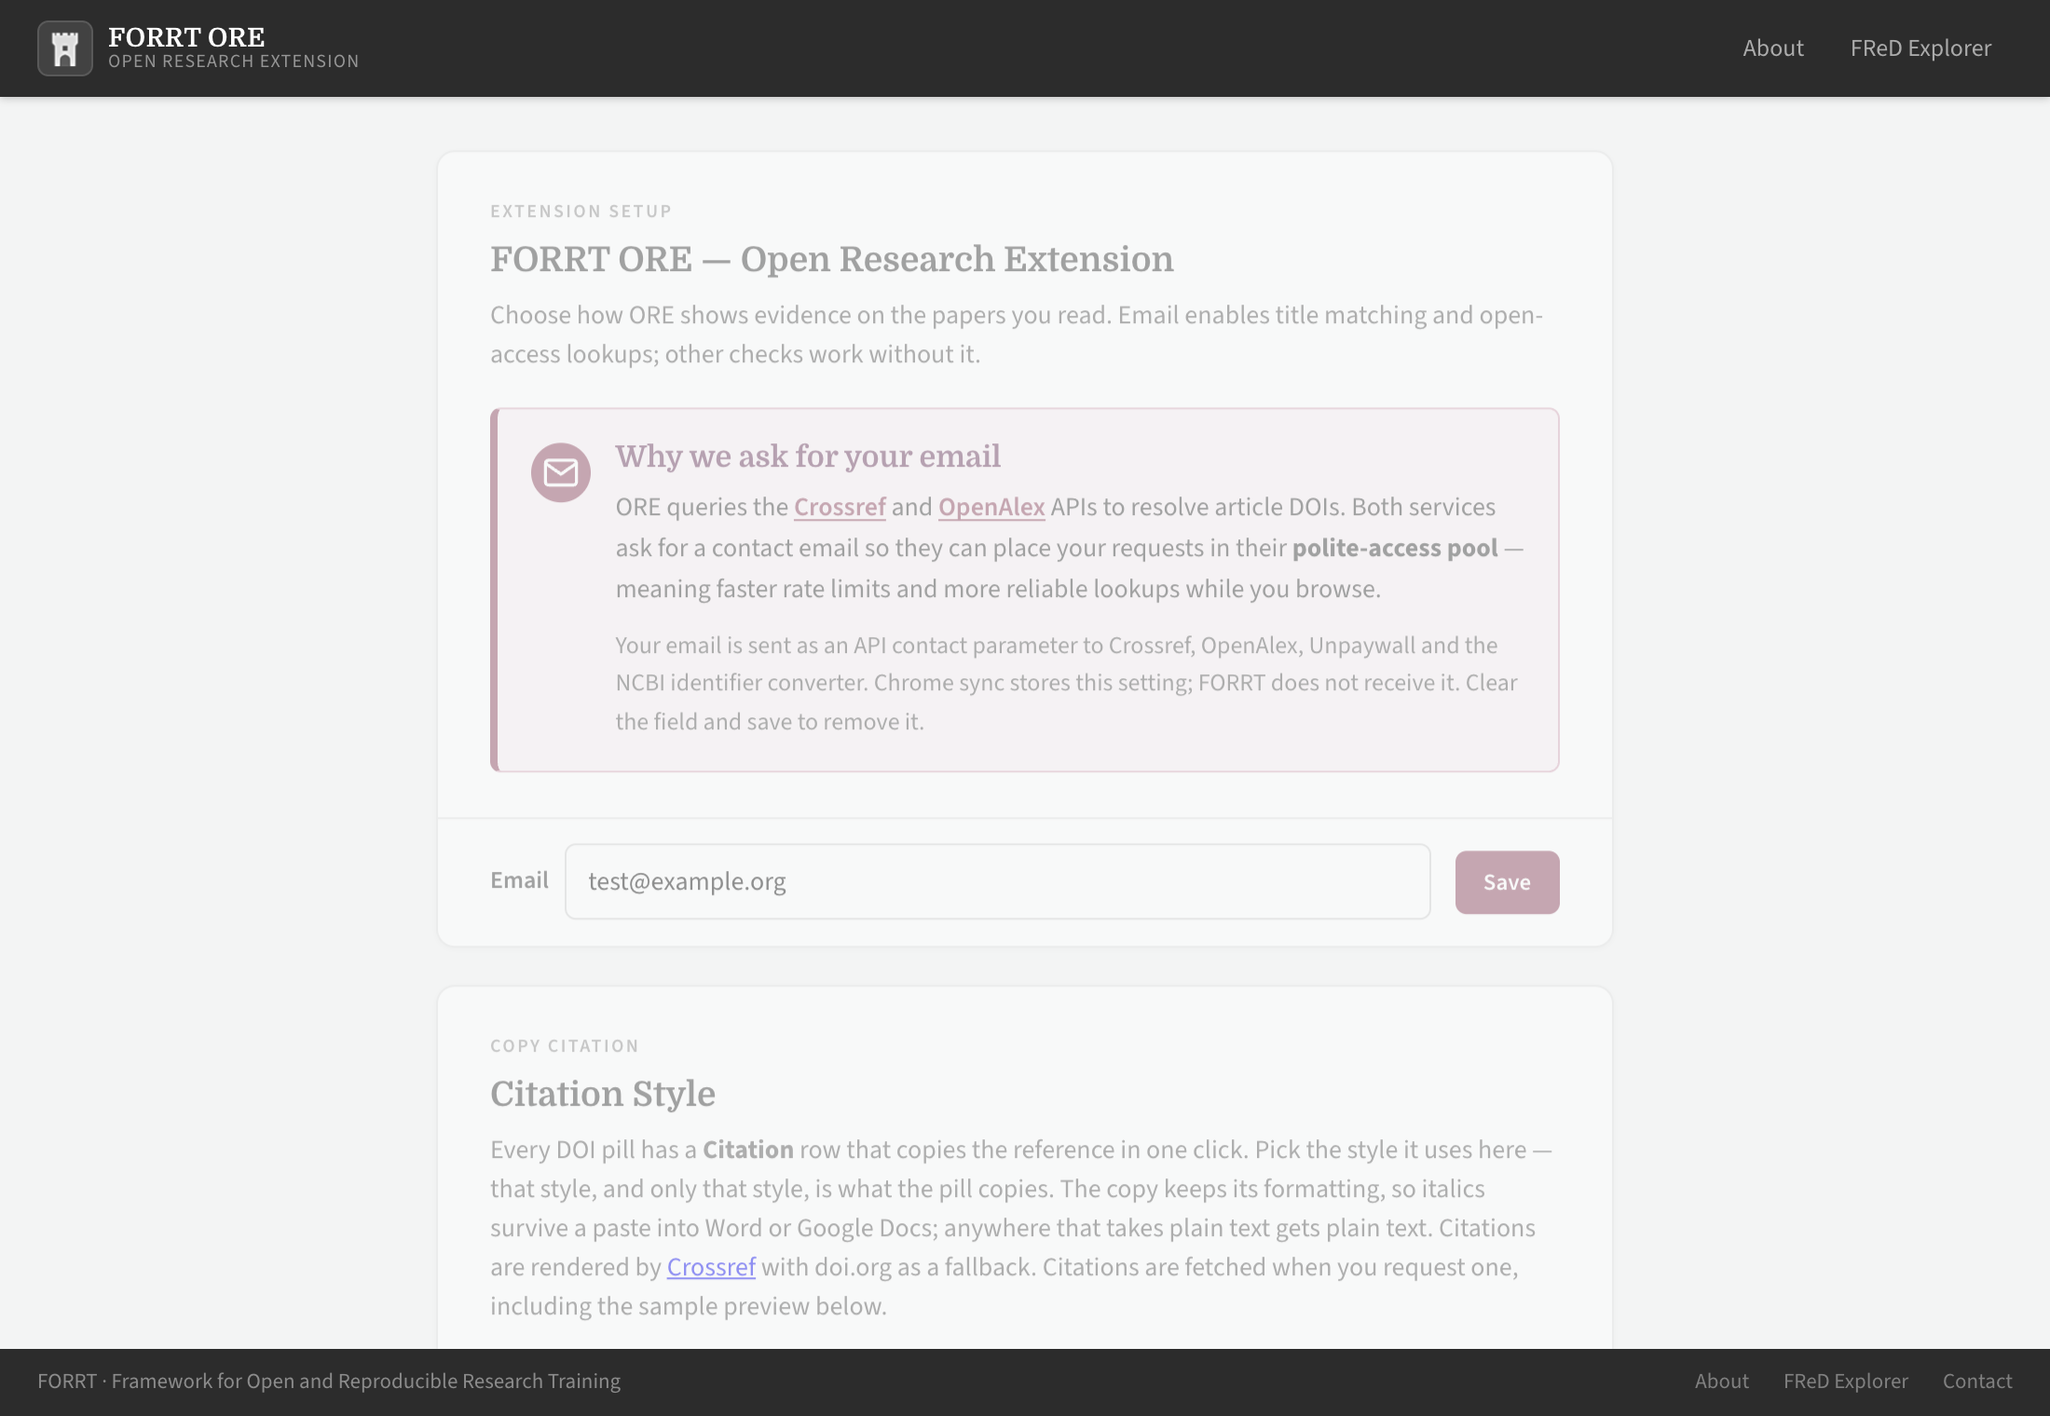
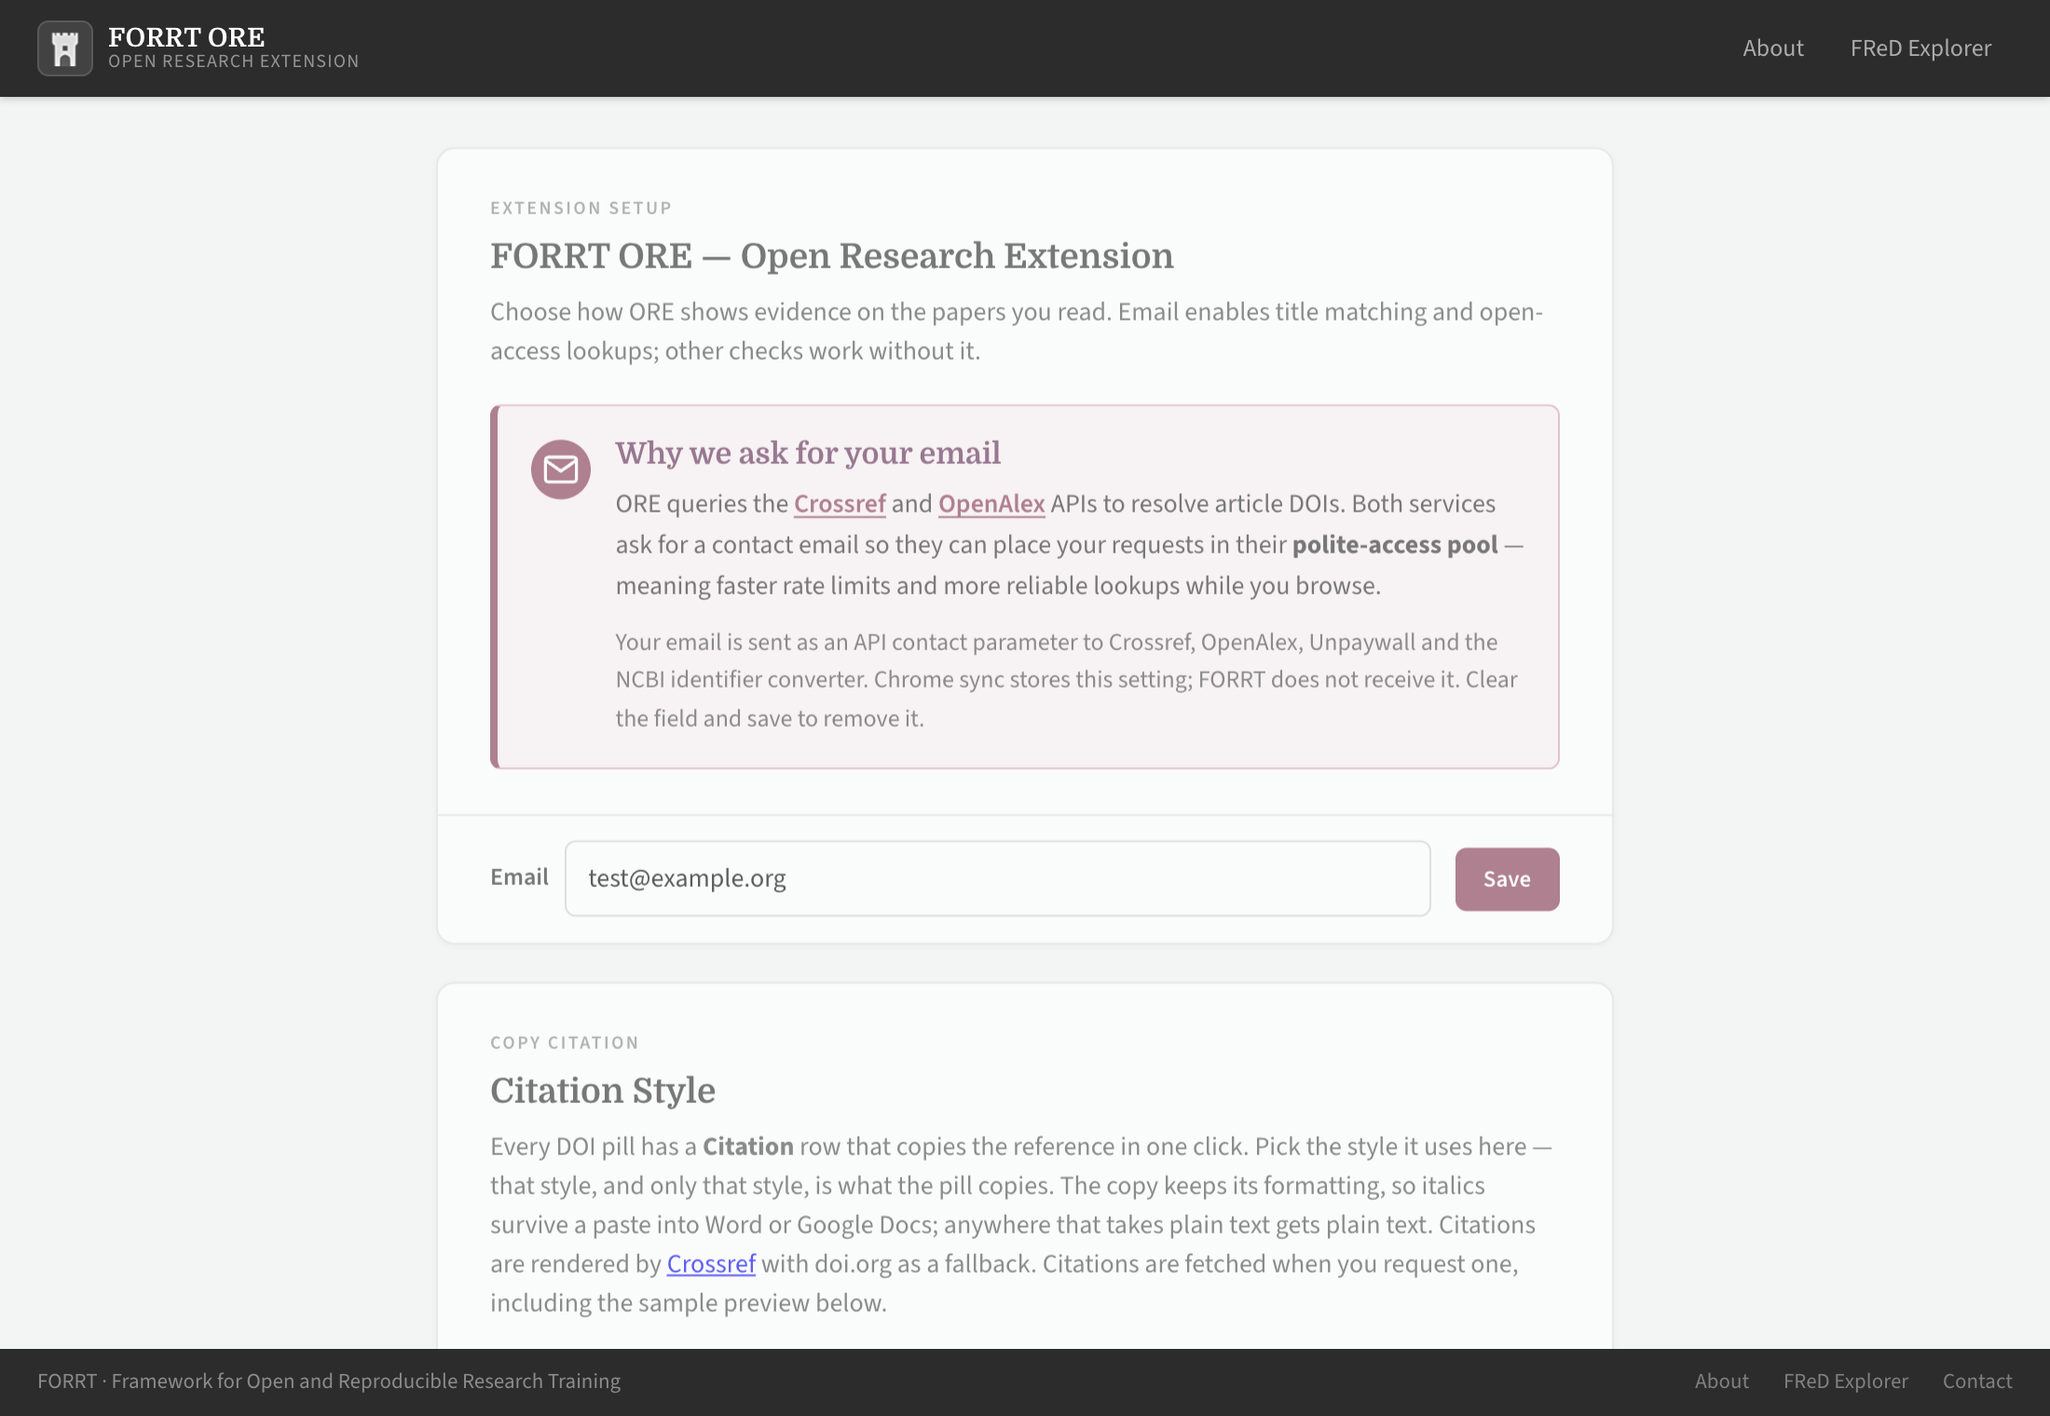
Address consistency review and redact contact details from diagnostics

diff --git a/docs/privacy.html b/docs/privacy.html
@@ -104,7 +104,8 @@
         <li>
           <strong>The URL and hostname of the current page</strong>, used within
           your browser to scope scanning and to apply your per-domain settings.
-          URLs are not sent as part of paper lookups. If you choose to report an
+          Article-page PubPeer lookups also send the page URL to PubPeer.
+          If you choose to report an
           issue, the report may include page information; review it before sharing.
         </li>
         <li>
@@ -128,8 +129,8 @@
       <ul>
         <li>
           <strong>Settings</strong> (<code>chrome.storage.sync</code>): your
-          contact email, citation style, DOI-pill display preference, cache
-          limit, disabled domains and muted PubPeer commenters. Because this
+          contact email, citation style, cache limit, disabled domains, muted
+          PubPeer commenters and the “Offer Copy log after each pass” preference. Because this
           uses Chrome's sync storage, these settings are synchronised across
           browsers you are signed into — that synchronisation is performed by
           Chrome under your Google account, not by FORRT.
@@ -171,8 +172,8 @@
         <tbody>
           <tr>
             <td>FORRT replication API (<code>rep-api.forrt.org</code>)</td>
-            <td>DOIs, in batches</td>
-            <td>Replication and reproduction records</td>
+            <td>DOIs, in batches; DOI lists for long Atlas links</td>
+            <td>Replication and reproduction records; storing DOI sets referenced by a shorter Atlas link</td>
           </tr>
           <tr>
             <td><a href="https://www.crossref.org/">Crossref</a></td>
@@ -182,7 +183,7 @@
           <tr>
             <td><a href="https://openalex.org/">OpenAlex</a></td>
             <td>Titles, OpenAlex work ids, your contact email</td>
-            <td>Resolving titles to DOIs when Crossref finds no match; resolving OpenAlex search results to DOIs</td>
+            <td>Resolving titles to DOIs; resolving OpenAlex search results to DOIs</td>
           </tr>
           <tr>
             <td><a href="https://www.semanticscholar.org/">Semantic Scholar</a></td>
@@ -196,7 +197,7 @@
           </tr>
           <tr>
             <td><a href="https://pubpeer.com/">PubPeer</a></td>
-            <td>DOIs</td>
+            <td>DOIs and, for article-page lookups, the current page URL</td>
             <td>Post-publication comment counts and threads</td>
           </tr>
           <tr>
@@ -230,6 +231,17 @@
         </tbody>
       </table>
       <p>
+        Title matching alternates which of Crossref or OpenAlex is queried first.
+        The other service is contacted when the first fails or returns no single
+        DOI. Both may therefore receive the same title.
+      </p>
+      <p>
+        For a long Atlas link, ORE sends the DOI list to FORRT to create a stored
+        set and uses its identifier in the link. This happens while preparing
+        the link, before you click it. The separate Meta Report share link
+        encodes its report in the URL fragment instead.
+      </p>
+      <p>
         <strong>Retraction status is determined locally.</strong> The Extension
         downloads the retraction list about once a week and checks papers
         against it on your own device, so no DOI is ever sent anywhere in order
@@ -259,9 +271,11 @@
       <h2>7. Retention</h2>
       <ul>
         <li>
-          <strong>Lookups sent to the FORRT API</strong> are used to answer the
-          request and are not logged. No record is kept of which DOIs were
-          looked up, or of who looked them up.
+          <strong>FORRT API requests</strong> retrieve evidence for the submitted
+          DOIs. DOI sets created for long Atlas links are stored by FORRT so
+          those links can retrieve the list later; they are separate from the
+          lookup cache on your device. Clearing extension storage does not
+          delete a server-side DOI set.
         </li>
         <li>
           <strong>Third-party services</strong> (Crossref, OpenAlex, Unpaywall,
@@ -322,7 +336,8 @@
         All requests are made over HTTPS. Data stored locally is subject to your
         browser's own security model. The Extension requests only the browser
         permissions it needs — storage, extended storage for its cache, and
-        access to the tab you are actively viewing — and its full source code is
+        access to the tab you are actively viewing, plus alarms for scheduled
+        maintenance — and its full source code is
         <a href="https://github.com/forrtproject/chromium-extension">public</a>.
       </p>
 

diff --git a/src/walkthrough/index.html b/src/walkthrough/index.html
@@ -172,12 +172,11 @@
                       </svg>
                     </div>
                     <div class="wt-callout-body">
-                      <div class="wt-callout-title">A dash means "nothing found"</div>
+                      <div class="wt-callout-title">Read the status in each row</div>
                       <div class="wt-callout-text">
-                        Rows stay in place when a lookup comes back empty
-                        rather than disappearing, so the panel is the same
-                        shape on every result and you can tell "no free copy"
-                        apart from "not checked yet".
+                        Rows stay in place while checks run and when nothing
+                        is found. Read the status to distinguish an empty result
+                        from a check that is still pending or unavailable.
                       </div>
                     </div>
                   </div>
@@ -356,12 +355,11 @@
                       </svg>
                     </div>
                     <div class="wt-callout-body">
-                      <div class="wt-callout-title">References are not all pilled</div>
+                      <div class="wt-callout-title">Pills identify recognised references</div>
                       <div class="wt-callout-text">
-                        By default a reference gets a pill only where its DOI is
-                        not already printed on the page, to keep a bibliography
-                        readable. Settings has a switch for a pill on every
-                        reference.
+                        Each recognised reference gets a pill. When its DOI is
+                        already linked on the page, ORE places the pill after
+                        that link; otherwise it adds one beside the reference.
                       </div>
                     </div>
                   </div>
@@ -514,8 +512,8 @@
                   </div>
                   <div class="demo-board-row">
                     <div class="demo-board-label">
-                      <strong>Nothing found</strong>
-                      <span>Same shape, all four dimmed — ORE looked and came back empty</span>
+                      <strong>No positive signals</strong>
+                      <span>Dimmed icons: open the panel to see whether checks completed</span>
                     </div>
                     <div class="demo-board-art" data-demo="pill-no-signals"></div>
                   </div>
@@ -895,7 +893,7 @@
                 </div>
 
                 <p class="wt-footnote">
-                  You can reopen this tour any time from Settings.
+                  Reopen this tour from the ORE toolbar popup: choose “How it works”.
                 </p>
               </div>
             </div>

diff --git a/tests/unit/debug-log.test.ts b/tests/unit/debug-log.test.ts
@@ -3,6 +3,7 @@ import {
   _resetDebugForTesting,
   debugError,
   debugLog,
+  recentDebugEntries,
   flushDebugLog,
   isDebugEnabled,
   setDebug,
@@ -265,13 +266,35 @@ describe("debug report", () => {
     }) as unknown as typeof chrome.storage.sync.get;
     _resetSettingsCacheForTesting();
 
-    await appendDebugEntries([entry("looked up 10.1234/abc", 1)]);
+    // Simulate an older persisted failure log, before capture-time redaction.
+    localStore[DEBUG_LOG_KEY] = [entry(
+      "Citation: https://api.crossref.org/works/10.1234%2Fabc/transform?mailto=someone%40university.edu failed; contact someone@university.edu", 1,
+    )];
     const { text, entryCount } = await buildDebugReport();
 
     expect(entryCount).toBe(1);
     expect(text).not.toContain("someone@university.edu");
     expect(text).toContain("Contact email configured: yes");
-    expect(text).toContain("looked up 10.1234/abc");
+    expect(text).not.toContain("someone%40university.edu");
+    expect(text).toContain("10.1234%2Fabc/transform?mailto=[redacted]");
+  });
+
+  it("redacts contact addresses before capturing failure diagnostics", () => {
+    debugError("request failed", new Error("https://api.crossref.org/works/10.1234/abc?mailto=someone%40university.edu&rows=5; someone@university.edu"));
+    const captured = recentDebugEntries();
+    expect(captured[0].msg).not.toMatch(/someone(?:@|%40)university\.edu/);
+    const report = renderDebugReport({environment: [], settings: [], entries: captured});
+    expect(report).not.toMatch(/someone(?:@|%40)university\.edu/);
+    expect(report).toContain("mailto=[redacted]&rows=5");
+    expect(report).toContain("10.1234/abc");
+  });
+
+  it("redacts addresses in issue error summaries even without a captured log", () => {
+    const { url } = issueUrl({error: {message: "Failed for someone@university.edu", stack: "https://api.crossref.org/?mailto=someone%40university.edu"}});
+    const parsed = new URL(url);
+    expect(parsed.searchParams.get("title")).not.toContain("someone@");
+    expect(parsed.searchParams.get("body")).not.toMatch(/someone(?:@|%40)university\.edu/);
+    expect(parsed.searchParams.get("body")).toContain("[redacted");
   });
 
   it("builds an issue URL that names the domain", () => {

diff --git a/docs/index.html b/docs/index.html
@@ -77,9 +77,9 @@
             Left to right: whether the DOI was read off the page or found by
             search, whether a free full text exists, whether the paper is
             discussed on PubPeer, and how many replications or reproductions are
-            on record. A dimmed segment means nothing was found for that signal —
-            it never disappears. Point at the pill and each segment opens into a
-            row you can read and act on; click to keep it open.
+            on record. A dimmed segment can mean nothing was found, or that the
+            check is pending or unavailable. Point at the pill to read each
+            status and available action; click to keep it open.
           </p>
           <figure class="shot plain wide">
             <img
@@ -292,10 +292,12 @@
             <li>Turn on <strong>Developer mode</strong>, top right.</li>
             <li>Click <strong>Load unpacked</strong> and select the unzipped folder.</li>
             <li>
-              Optionally enter a contact email on the settings page that opens.
+              The welcome tour opens after installation. Choose <strong>Open
+              Settings</strong> at the end, or <strong>Skip to Settings</strong>,
+              to optionally enter a contact email.
               ORE needs it for title-to-DOI matching and Unpaywall lookups.
               Existing DOI, replication, retraction and PubPeer checks work
-              without it. The address also accompanies Crossref, OpenAlex and
+              without it. The address accompanies Crossref, OpenAlex, Unpaywall and
               NCBI requests.
             </li>
           </ol>

diff --git a/src/shared/debug-report.ts b/src/shared/debug-report.ts
@@ -14,6 +14,7 @@
  * only ever upgrades a trimmed log to a complete one.
  */
 
+import { redactDebugText } from "./debug-redact";
 import { recentDebugEntries, type DebugLogEntry, type RuntimeErrorInfo } from "./debug";
 import { readDebugLog } from "./debug-log";
 import { safeSendMessage } from "./messages";
@@ -140,7 +141,7 @@ export function renderDebugReport(
     lines.push(
       "_No entries captured. Turn debug mode on, reproduce the problem, then copy the report again._"
     );
-    return lines.join("\n");
+    return redactDebugText(lines.join("\n"));
   }
 
   let body = shown.map(formatDebugEntry).join("\n");
@@ -150,7 +151,7 @@ export function renderDebugReport(
   }
 
   lines.push("```", body, "```");
-  return lines.join("\n");
+  return redactDebugText(lines.join("\n"));
 }
 
 /** Gather the report's parts without rendering them. */
@@ -304,8 +305,8 @@ function linkFor(
   error?: RuntimeErrorInfo | null
 ): string {
   const params = new URLSearchParams({
-    title: issueTitle(domain, error),
-    body: issueBody(domain, reportSection, error),
+    title: redactDebugText(issueTitle(domain, error)),
+    body: redactDebugText(issueBody(domain, reportSection, error)),
     labels: error ? "bug" : domain ? "domain-issue" : "bug",
   });
   return `${ISSUE_URL}?${params.toString()}`;

diff --git a/src/content-general/injector.ts b/src/content-general/injector.ts
@@ -131,7 +131,8 @@ export async function renderSetupPrompt(): Promise<void> {
       <div style="padding:12px 14px;">
         <p style="margin:0 0 6px;font-size:13px;color:#3c4043;line-height:1.45;">
           Add an email to enable title matching and open-access lookups.
-          Replication, retraction and PubPeer checks already work without it.
+          DOI-based replication, retraction and PubPeer checks work without it.
+          Settings explains how Crossref, OpenAlex, Unpaywall and NCBI receive the email.
         </p>
         <button class="flora-setup-open" style="
           all:unset;cursor:pointer;display:block;width:100%;text-align:center;

diff --git a/src/shared/debug.ts b/src/shared/debug.ts
@@ -11,6 +11,8 @@
  * startup so its own entries skip the message round-trip.
  */
 
+import { redactDebugText } from "./debug-redact";
+
 export type DebugLevel = "log" | "warn" | "error";
 
 /** One captured line. Kept small — hundreds of these are persisted at a time. */
@@ -113,7 +115,7 @@ function stringifyArg(arg: unknown): string {
 }
 
 function formatMessage(args: unknown[]): string {
-  const text = args.map(stringifyArg).join(" ");
+  const text = redactDebugText(args.map(stringifyArg).join(" "));
   return text.length > MAX_MESSAGE_CHARS
     ? `${text.slice(0, MAX_MESSAGE_CHARS)}… (truncated)`
     : text;

diff --git a/src/shared/debug-redact.ts b/src/shared/debug-redact.ts
@@ -1,0 +1,8 @@
+/** Strip API contact parameters and email addresses from diagnostic text. */
+export function redactDebugText(text: string): string {
+  return text
+    .replace(/([?&](?:mailto|email)=)[^&#\s"'<>]*/gi, "$1[redacted]")
+    // Reports can contain URLs that were themselves encoded into another URL.
+    .replace(/((?:%3f|%26)(?:mailto|email)%3d)(?:(?!%26|%23)[^\s"'<>])*/gi, "$1[redacted]")
+    .replace(/[a-z0-9.!#$%&'*+/=?^_`{|}~-]+(?:@|%40)[a-z0-9.-]+\.[a-z]{2,}/gi, "[redacted email]");
+}

diff --git a/src/options/options.ts b/src/options/options.ts
@@ -41,7 +41,7 @@ form.addEventListener("submit", async (e) => {
         : "Email removed. Reload open tabs. Title matching and open-access lookups need an email; other checks still work.";
     statusMsg.className = "status success";
     statusMsg.hidden = false;
-    saveBtn.textContent = "Save";
+    saveBtn.textContent = email ? "Save" : "Save contact email";
   } catch (err) {
     debugError("Settings: save failed —", err);
     statusMsg.textContent = "Failed to save — please try again.";

diff --git a/README.md b/README.md
@@ -233,7 +233,7 @@ never included.
 ### How it works
 
 1. **Content scripts** run on every page. They extract DOIs from the page using meta tags, JSON-LD, link hrefs, visible text, and HTML tables. Word-break characters are stripped and partial DOI suffixes are filtered out.
-2. If no DOIs are found directly, the extension tries to resolve the page/article title to a DOI using the **Crossref API** first, then **OpenAlex** as a fallback (fuzzy title matching with token-set-ratio > 88%).
+2. If no DOIs are found directly, the extension tries to resolve the page/article title to a DOI using **Crossref** or **OpenAlex**, alternating which service is queried first across titles. The other service is queried if the first fails or returns no single DOI (fuzzy title matching with token-set-ratio > 88%).
 3. Found DOIs are sent to the **background service worker** via `chrome.runtime.sendMessage`.
 4. The service worker checks its **session cache**, deduplicates in-flight requests, and calls the **FORRT Replication API** for any uncached DOIs.
 5. Results are sent back to the content script, which renders **banners** and **inline badges** using Shadow DOM.
